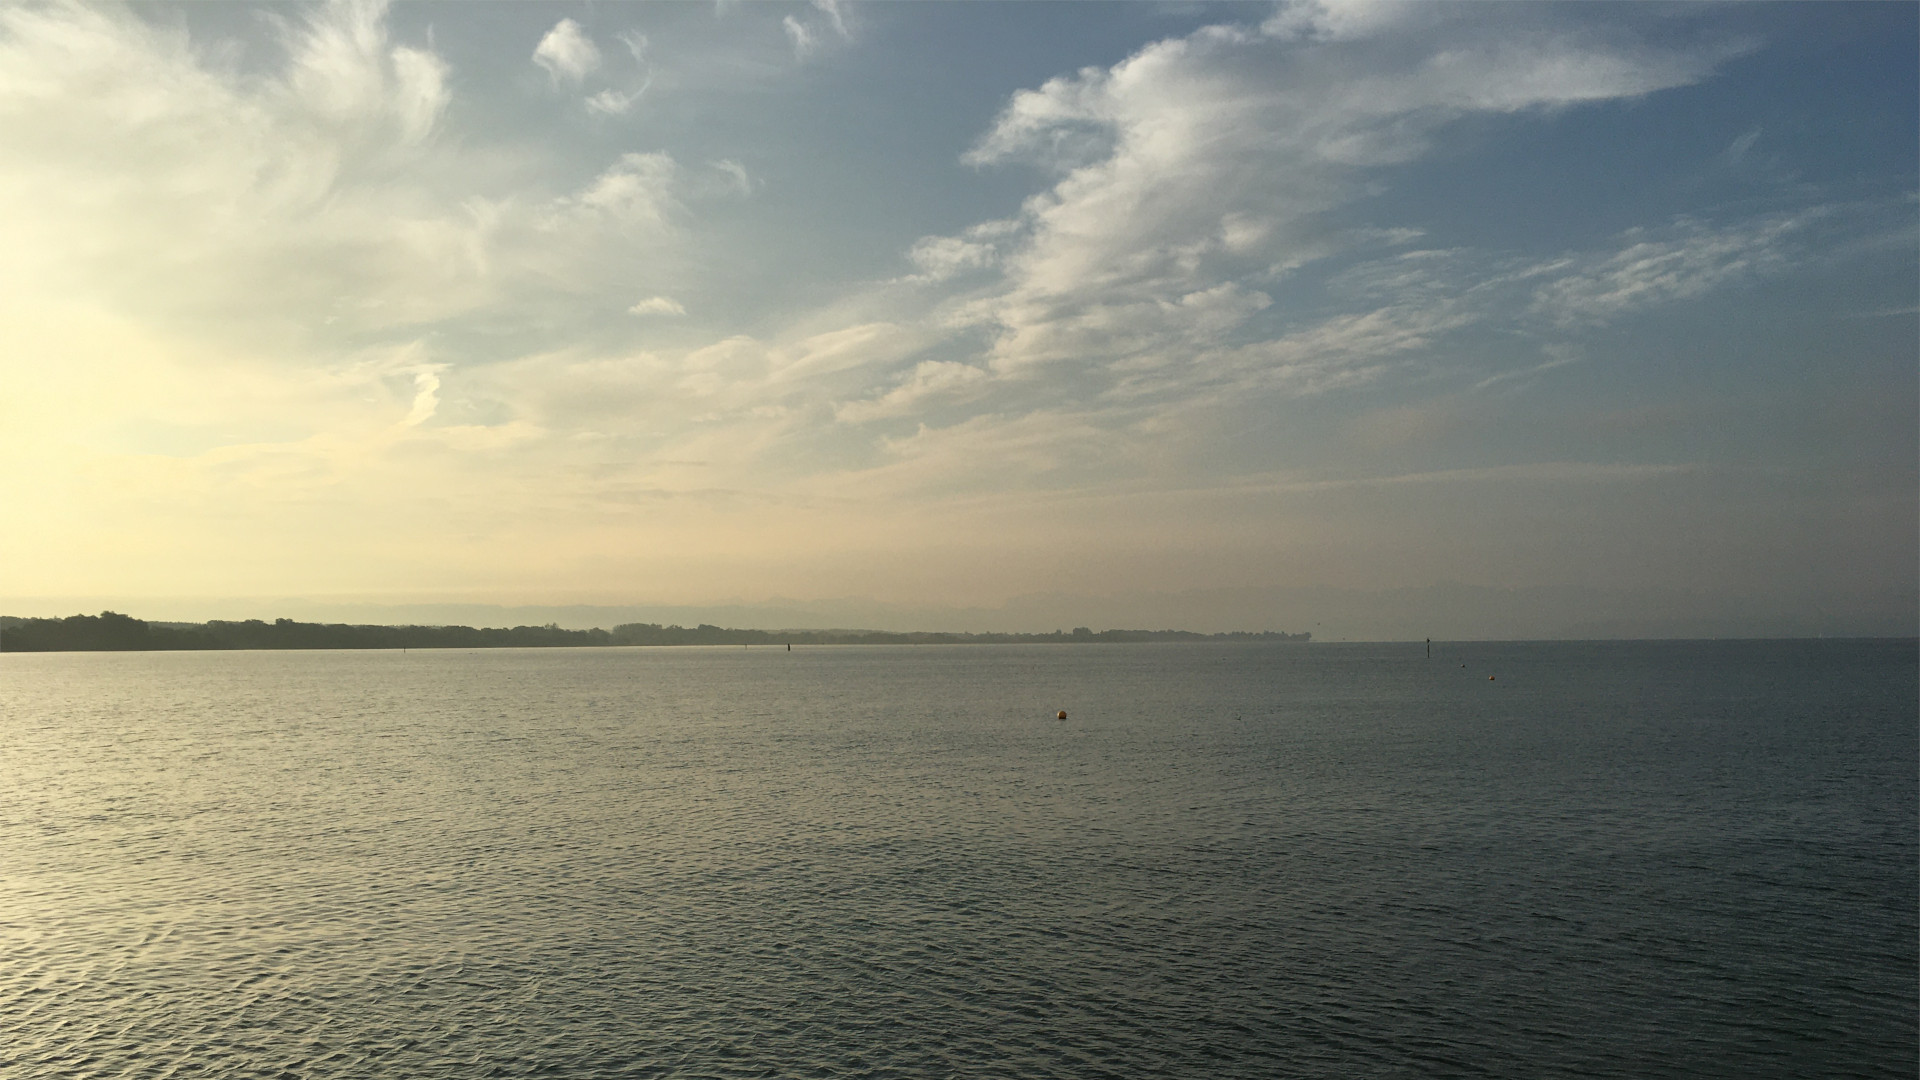
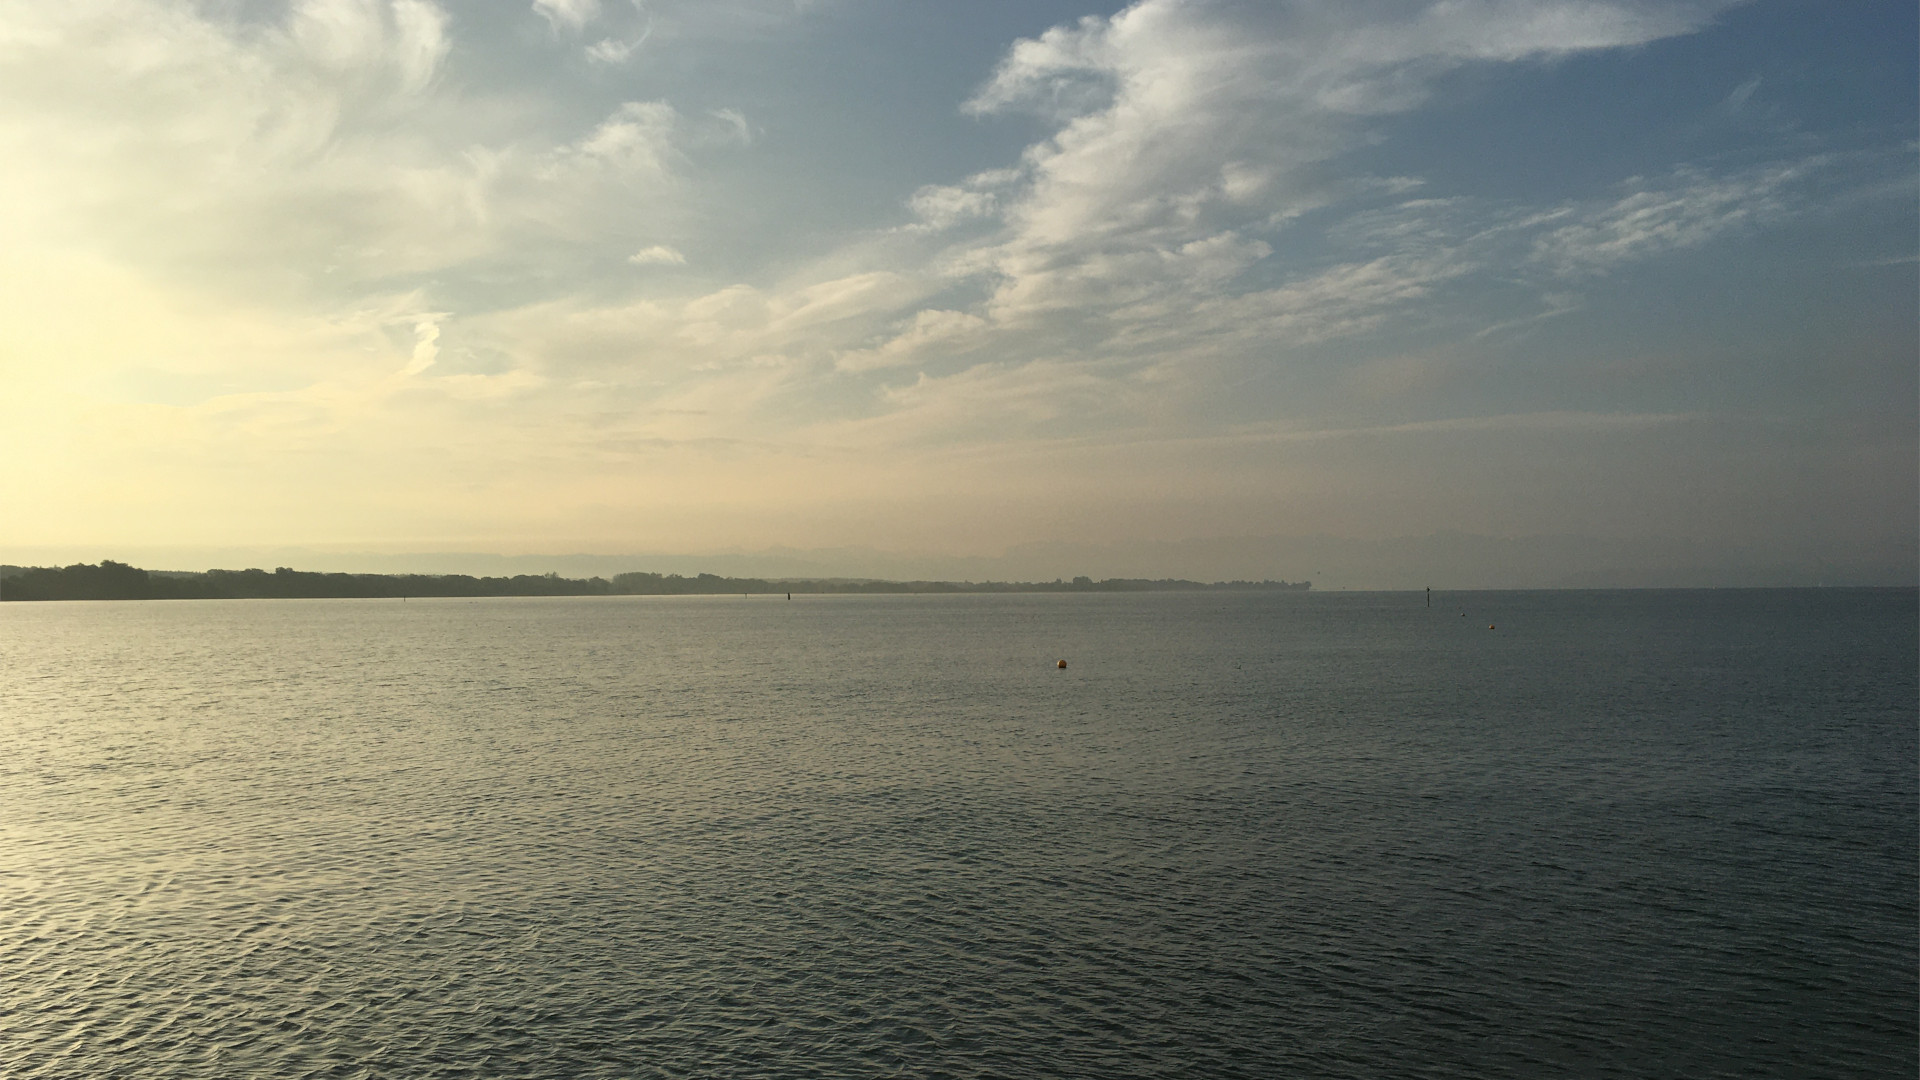
Add color hero.

diff --git a/content/home/hero.md b/content/home/hero.md
@@ -83,15 +83,15 @@ subtitle = "We develop and apply data science approaches to understand gene acti
   # Version 4.1 - Sky + Black Characters
   # ---------------------------------------------------------------------------
   # Background image.
-  image = "HeroV10.jpg"
-  image_darken = 0.0  # Darken the image? Range 0-1 where 0 is transparent and 1 is opaque.
+  ##image = "HeroV10.jpg"
+  ##image_darken = 0.0  # Darken the image? Range 0-1 where 0 is transparent and 1 is opaque.
   # ---------------------------------------------------------------------------
   # Contain: it takes the image and fits it into some format, so the image is CONTAINED within this format (so the longest edge must fit within their format)
   # Cover: it takes the image so it COVERS this format.
-  image_size = "cover"  #  Options are `cover` (default), `contain`, or `actual` size.
-  image_position = "center"
+  ##image_size = "cover"  #  Options are `cover` (default), `contain`, or `actual` size.
+  ##image_position = "center"
   # Text color (true=light or false=dark).
-  text_color_light = false
+  ##text_color_light = false
 
   # ___________________________________________________________________________
   # ---------------------------------------------------------------------------
@@ -108,6 +108,20 @@ subtitle = "We develop and apply data science approaches to understand gene acti
   # Text color (true=light or false=dark).
   ##text_color_light = true
 
+  # ___________________________________________________________________________
+  # ---------------------------------------------------------------------------
+  # Version 6 - Sky color + Black Characters
+  # ---------------------------------------------------------------------------
+  # Background image.
+  image = "HeroV10_color.jpg"
+  image_darken = 0.0  # Darken the image? Range 0-1 where 0 is transparent and 1 is opaque.
+  # ---------------------------------------------------------------------------
+  # Contain: it takes the image and fits it into some format, so the image is CONTAINED within this format (so the longest edge must fit within their format)
+  # Cover: it takes the image so it COVERS this format.
+  image_size = "cover"  #  Options are `cover` (default), `contain`, or `actual` size.
+  image_position = "center"
+  # Text color (true=light or false=dark).
+  text_color_light = false
 
 
 
